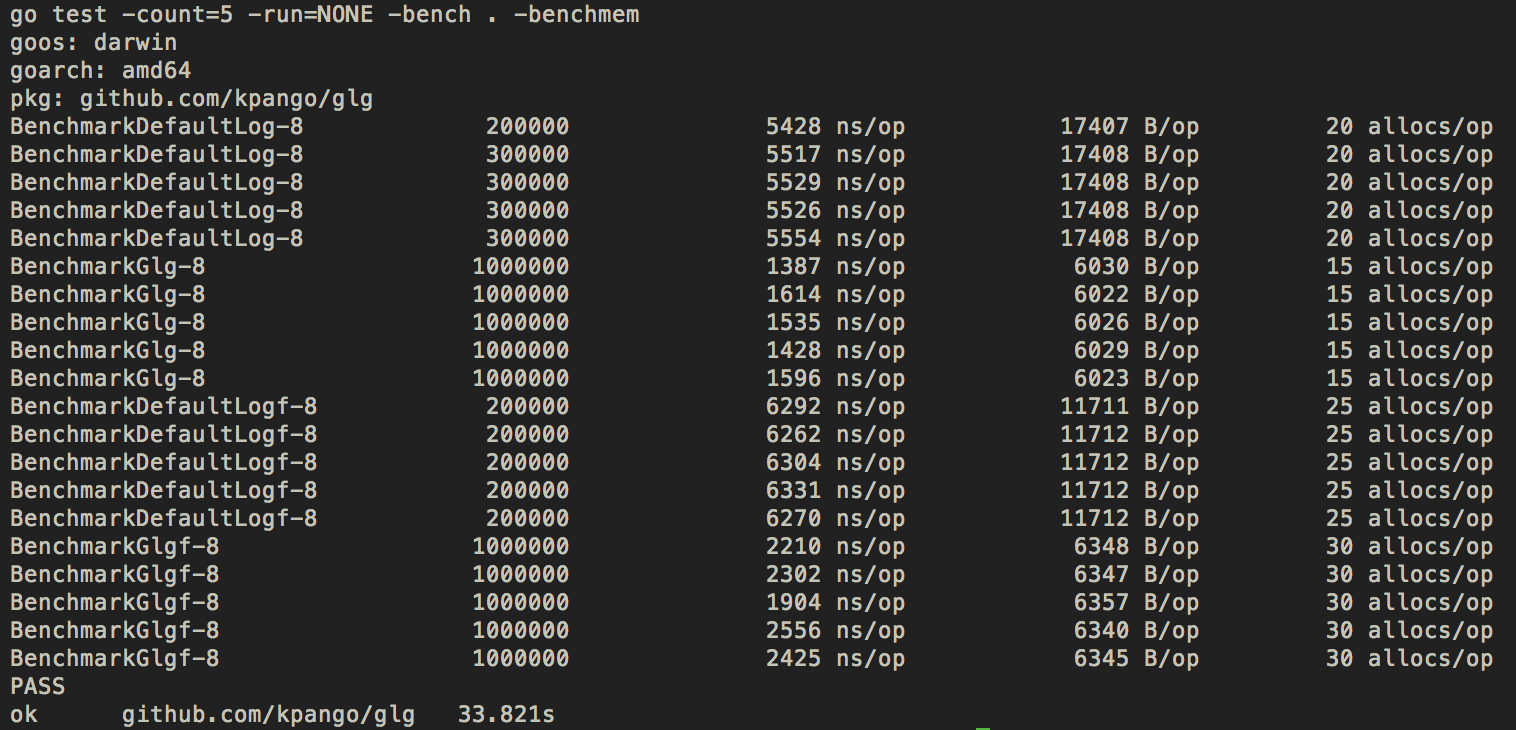
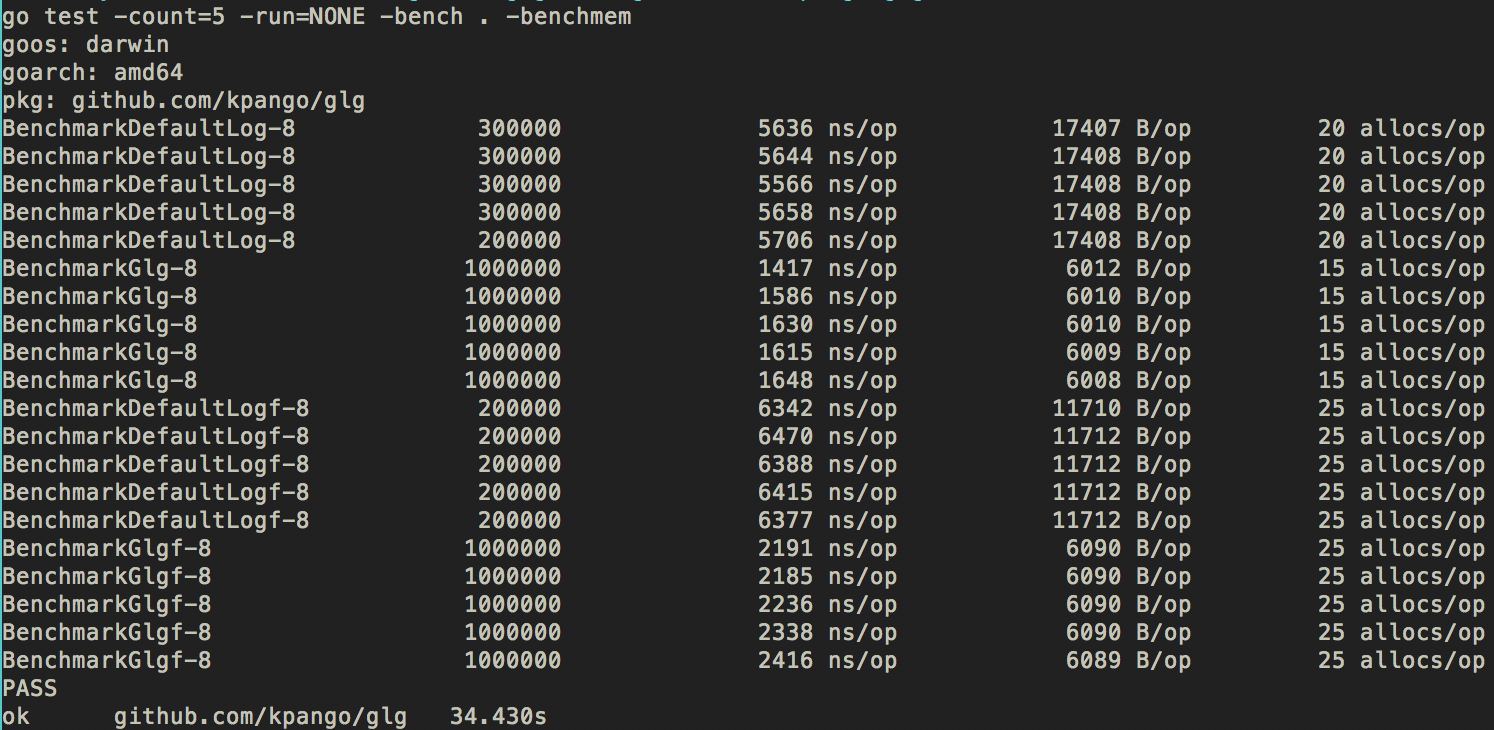
non formated print bug fixed

diff --git a/glg.go b/glg.go
@@ -78,6 +78,9 @@ const (
 	writeColorBoth
 	writeBoth
 	none
+
+	// Default Format
+	df = "%v %v %v %v %v %v %v %v %v %v %v %v %v %v %v %v %v %v %v %v %v %v %v %v %v %v %v %v %v %v %v %v %v %v %v %v %v %v %v %v "
 )
 
 var (
@@ -288,6 +291,11 @@ func (g *Glg) SetLevelMode(level LEVEL, mode MODE) *Glg {
 	}
 
 	return g
+}
+
+// SetPrefix set Print logger prefix
+func SetPrefix(pref string) *Glg {
+	return glg.SetPrefix(pref)
 }
 
 // SetPrefix set Print logger prefix
@@ -655,6 +663,18 @@ func (g *Glg) out(level LEVEL, format string, val ...interface{}) error {
 	if !ok {
 		return fmt.Errorf("Log Level %s Not Found", level)
 	}
+
+	if format == "" {
+		if len(df)/3 > len(val) {
+			format = df[:len(val)*3-1]
+		} else {
+			for range val {
+				format += "%v "
+			}
+			format = format[:len(format)-1]
+		}
+	}
+
 	log := l.(*logger)
 
 	var err error
@@ -685,7 +705,7 @@ func (g *Glg) out(level LEVEL, format string, val ...interface{}) error {
 
 // Log writes std log event
 func (g *Glg) Log(val ...interface{}) error {
-	return g.out(LOG, "%v", val...)
+	return g.out(LOG, "", val...)
 }
 
 // Logf writes std log event with format
@@ -695,7 +715,7 @@ func (g *Glg) Logf(format string, val ...interface{}) error {
 
 // Log writes std log event
 func Log(val ...interface{}) error {
-	return glg.out(LOG, "%v", val...)
+	return glg.out(LOG, "", val...)
 }
 
 // Logf writes std log event with format
@@ -705,7 +725,7 @@ func Logf(format string, val ...interface{}) error {
 
 // Info outputs Info level log
 func (g *Glg) Info(val ...interface{}) error {
-	return g.out(INFO, "%v", val...)
+	return g.out(INFO, "", val...)
 }
 
 // Infof outputs formatted Info level log
@@ -715,7 +735,7 @@ func (g *Glg) Infof(format string, val ...interface{}) error {
 
 // Info outputs Info level log
 func Info(val ...interface{}) error {
-	return glg.out(INFO, "%v", val...)
+	return glg.out(INFO, "", val...)
 }
 
 // Infof outputs formatted Info level log
@@ -725,7 +745,7 @@ func Infof(format string, val ...interface{}) error {
 
 // Success outputs Success level log
 func (g *Glg) Success(val ...interface{}) error {
-	return g.out(OK, "%v", val...)
+	return g.out(OK, "", val...)
 }
 
 // Successf outputs formatted Success level log
@@ -735,7 +755,7 @@ func (g *Glg) Successf(format string, val ...interface{}) error {
 
 // Success outputs Success level log
 func Success(val ...interface{}) error {
-	return glg.out(OK, "%v", val...)
+	return glg.out(OK, "", val...)
 }
 
 // Successf outputs formatted Success level log
@@ -745,7 +765,7 @@ func Successf(format string, val ...interface{}) error {
 
 // Debug outputs Debug level log
 func (g *Glg) Debug(val ...interface{}) error {
-	return g.out(DEBG, "%v", val...)
+	return g.out(DEBG, "", val...)
 }
 
 // Debugf outputs formatted Debug level log
@@ -755,7 +775,7 @@ func (g *Glg) Debugf(format string, val ...interface{}) error {
 
 // Debug outputs Debug level log
 func Debug(val ...interface{}) error {
-	return glg.out(DEBG, "%v", val...)
+	return glg.out(DEBG, "", val...)
 }
 
 // Debugf outputs formatted Debug level log
@@ -765,7 +785,7 @@ func Debugf(format string, val ...interface{}) error {
 
 // Warn outputs Warn level log
 func (g *Glg) Warn(val ...interface{}) error {
-	return g.out(WARN, "%v", val...)
+	return g.out(WARN, "", val...)
 }
 
 // Warnf outputs formatted Warn level log
@@ -775,7 +795,7 @@ func (g *Glg) Warnf(format string, val ...interface{}) error {
 
 // Warn outputs Warn level log
 func Warn(val ...interface{}) error {
-	return glg.out(WARN, "%v", val...)
+	return glg.out(WARN, "", val...)
 }
 
 // Warnf outputs formatted Warn level log
@@ -785,7 +805,7 @@ func Warnf(format string, val ...interface{}) error {
 
 // CustomLog outputs custom level log
 func (g *Glg) CustomLog(level string, val ...interface{}) error {
-	return g.out(g.TagStringToLevel(level), "%v", val...)
+	return g.out(g.TagStringToLevel(level), "", val...)
 }
 
 // CustomLogf outputs formatted custom level log
@@ -795,7 +815,7 @@ func (g *Glg) CustomLogf(level string, format string, val ...interface{}) error 
 
 // CustomLog outputs custom level log
 func CustomLog(level string, val ...interface{}) error {
-	return glg.out(glg.TagStringToLevel(level), "%v", val...)
+	return glg.out(glg.TagStringToLevel(level), "", val...)
 }
 
 // CustomLogf outputs formatted custom level log
@@ -805,12 +825,12 @@ func CustomLogf(level string, format string, val ...interface{}) error {
 
 // Print outputs Print log
 func (g *Glg) Print(val ...interface{}) error {
-	return g.out(PRINT, "%v", val...)
+	return g.out(PRINT, "", val...)
 }
 
 // Println outputs fixed line Print log
 func (g *Glg) Println(val ...interface{}) error {
-	return g.out(PRINT, "%v", val...)
+	return g.out(PRINT, "", val...)
 }
 
 // Printf outputs formatted Print log
@@ -820,12 +840,12 @@ func (g *Glg) Printf(format string, val ...interface{}) error {
 
 // Print outputs Print log
 func Print(val ...interface{}) error {
-	return glg.out(PRINT, "%v", val...)
+	return glg.out(PRINT, "", val...)
 }
 
 // Println outputs fixed line Print log
 func Println(val ...interface{}) error {
-	return glg.out(PRINT, "%v", val...)
+	return glg.out(PRINT, "", val...)
 }
 
 // Printf outputs formatted Print log
@@ -835,7 +855,7 @@ func Printf(format string, val ...interface{}) error {
 
 // Error outputs Error log
 func (g *Glg) Error(val ...interface{}) error {
-	return g.out(ERR, "%v", val...)
+	return g.out(ERR, "", val...)
 }
 
 // Errorf outputs formatted Error log
@@ -845,7 +865,7 @@ func (g *Glg) Errorf(format string, val ...interface{}) error {
 
 // Error outputs Error log
 func Error(val ...interface{}) error {
-	return glg.out(ERR, "%v", val...)
+	return glg.out(ERR, "", val...)
 }
 
 // Errorf outputs formatted Error log
@@ -855,7 +875,7 @@ func Errorf(format string, val ...interface{}) error {
 
 // Fail outputs Failed log
 func (g *Glg) Fail(val ...interface{}) error {
-	return g.out(FAIL, "%v", val...)
+	return g.out(FAIL, "", val...)
 }
 
 // Failf outputs formatted Failed log
@@ -865,7 +885,7 @@ func (g *Glg) Failf(format string, val ...interface{}) error {
 
 // Fail outputs Failed log
 func Fail(val ...interface{}) error {
-	return glg.out(FAIL, "%v", val...)
+	return glg.out(FAIL, "", val...)
 }
 
 // Failf outputs formatted Failed log
@@ -875,12 +895,26 @@ func Failf(format string, val ...interface{}) error {
 
 // Fatal outputs Failed log and exit program
 func (g *Glg) Fatal(val ...interface{}) {
-	g.Fatalf("%v", val...)
+	err := g.out(FATAL, "", val...)
+	if err != nil {
+		err = g.Error(err.Error())
+		if err != nil {
+			panic(err)
+		}
+	}
+	exit(1)
 }
 
 // Fatalln outputs line fixed Failed log and exit program
 func (g *Glg) Fatalln(val ...interface{}) {
-	g.Fatalf("%v", val...)
+	err := g.out(FATAL, "", val...)
+	if err != nil {
+		err = g.Error(err.Error())
+		if err != nil {
+			panic(err)
+		}
+	}
+	exit(1)
 }
 
 // Fatalf outputs formatted Failed log and exit program
@@ -897,7 +931,7 @@ func (g *Glg) Fatalf(format string, val ...interface{}) {
 
 // Fatal outputs Failed log and exit program
 func Fatal(val ...interface{}) {
-	glg.Fatalf("%v", val...)
+	glg.Fatal(val...)
 }
 
 // Fatalf outputs formatted Failed log and exit program
@@ -907,5 +941,5 @@ func Fatalf(format string, val ...interface{}) {
 
 // Fatalln outputs line fixed Failed log and exit program
 func Fatalln(val ...interface{}) {
-	glg.Fatalf("%v", val...)
+	glg.Fatalln(val...)
 }
